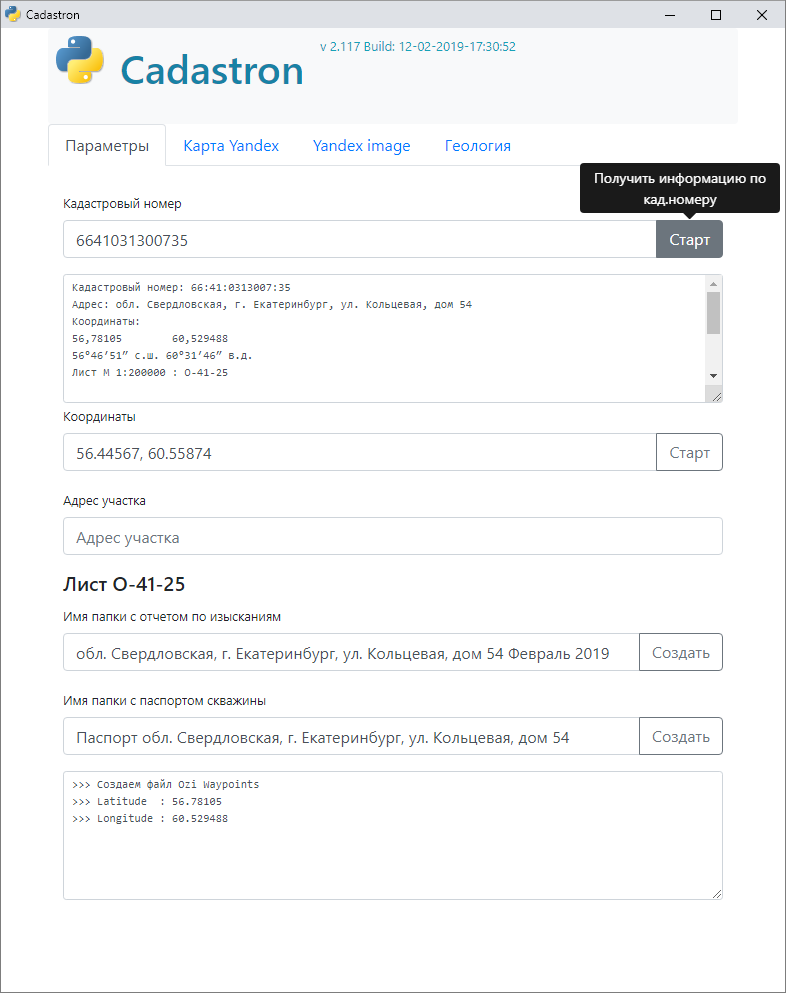
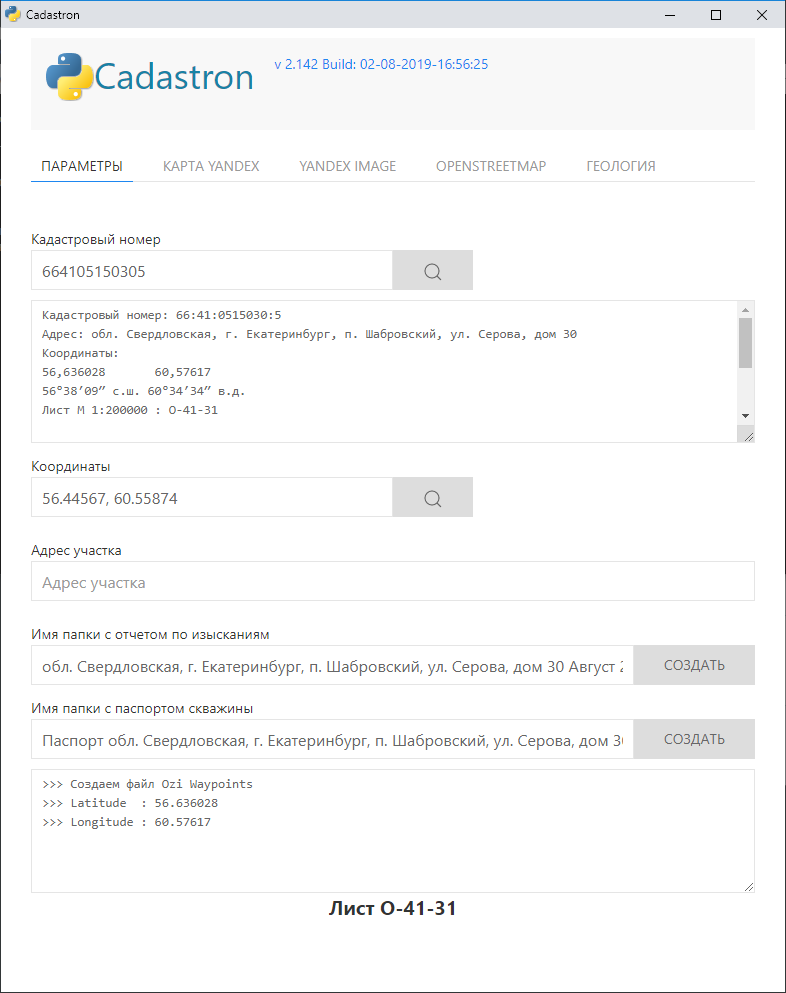
Screenshots changed

diff --git a/app/__init__.py b/app/__init__.py
@@ -1,2 +1,2 @@
-version = '2.142'
-build = '02-08-2019-16:56:25'
+version = '2.143'
+build = '06-08-2019-16:59:20'

diff --git a/README.md b/README.md
@@ -65,7 +65,8 @@
 
 ## Screenshots
 
-### Дизайн Bootstrap
+
+### Дизайн UIkit
 
 ![Start screen](screenshots/screenshot1.png "Start screen")
 
@@ -73,16 +74,8 @@
 
 ![Map2 tab](screenshots/screenshot3.png "Yandex image tab")
 
-![Map2 tab](screenshots/screenshot4.png "Geology tab")
+![Map3 tab](screenshots/screenshot4.png "OpenstreetMap tab")
 
-### Дизайн UIkit
-
-![Start screen](screenshots/screenshot5.png "Start screen")
-
-![Map1 tab](screenshots/screenshot6.png "Yandex Map tab")
-
-![Map2 tab](screenshots/screenshot7.png "Yandex image tab")
-
-![Map2 tab](screenshots/screenshot8.png "Geology tab")
+![Map4 tab](screenshots/screenshot4.png "Geology tab")
 
 
